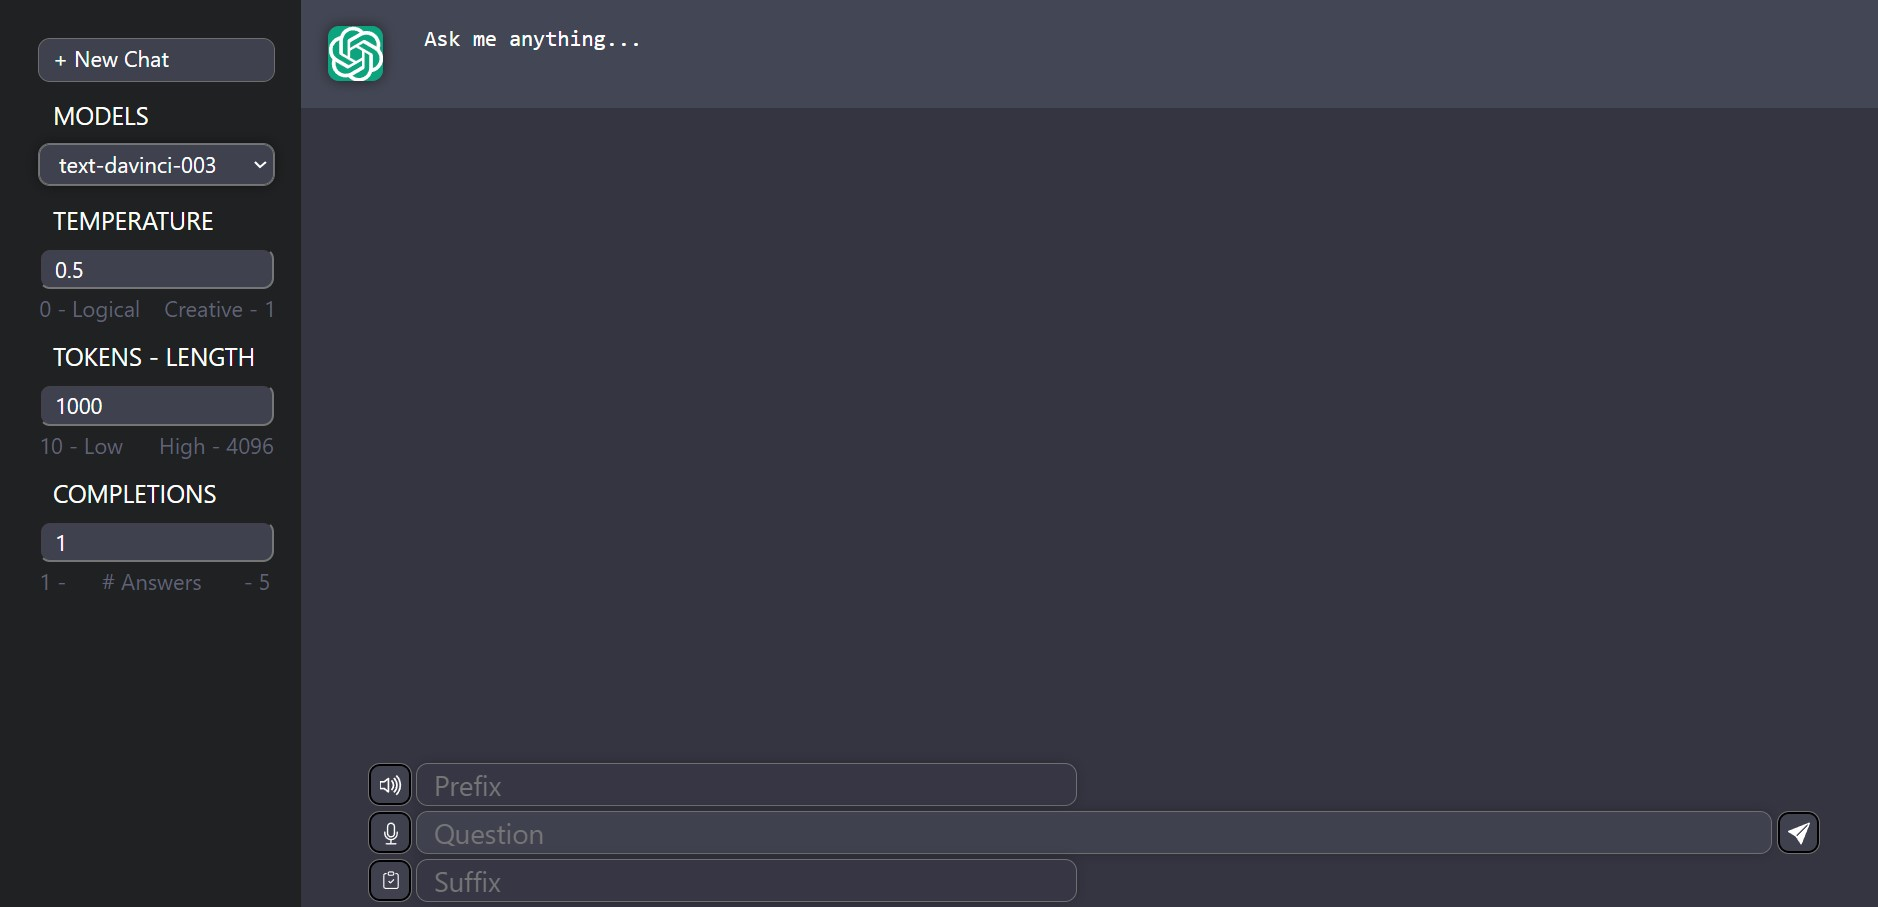
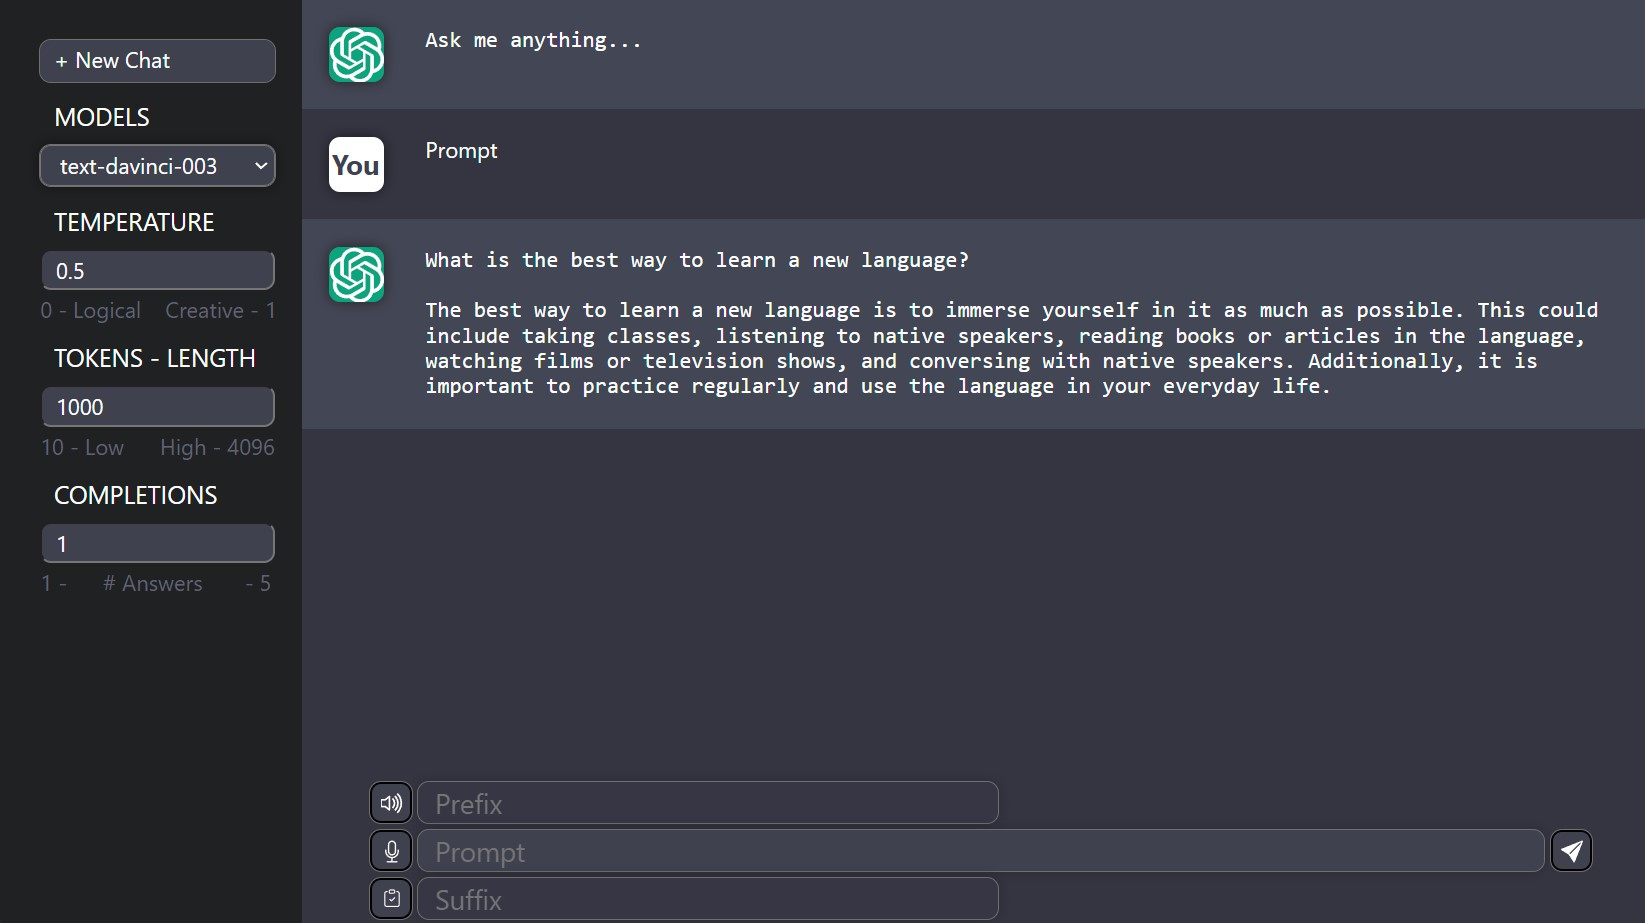
add button enability

Changed region(s): [[0.0, 0.0, 0.9921, 1.0]]

diff --git a/client/src/App.js b/client/src/App.js
@@ -17,7 +17,7 @@ mic.lang = 'en-US';
  */
 function App() {
   const MAX_TOKENS = parseInt(4096);
-  const PLACE_HOLDER = "Question";
+  const PLACE_HOLDER = "Prompt";
   const DEFAULT_QUERY = "Ask me anything...";
   const DEFAULT_MODEL = "text-davinci-003";
 
@@ -37,7 +37,7 @@ function App() {
   useEffect(() => {handleListen();}, [isListening]);
   const [isReading, setIsReading] = useState(false);
   // eslint-disable-next-line
-  useEffect(() => {handleReading(`${chatLog[chatLog.length-1]?.message}`);}, [isReading]);
+  useEffect(() => {handleReading(0);}, [isReading]);
   const {speak, voices} = useSpeechSynthesis();
 
   //###################### Async Functions #######################
@@ -101,10 +101,18 @@ function App() {
 
   function showLoader() {
     document.querySelector('.loader').style.visibility = "visible";
+    document.querySelector('.record-voice-button').disabled = true;
+    document.querySelector('.copy-button').disabled = true;
+    document.querySelector('.read-button').disabled = true;
+    document.querySelector('.send-button').disabled = true;
   }
 
   function hideLoader() {
     document.querySelector('.loader').style.visibility = "hidden";
+    document.querySelector('.record-voice-button').disabled = false;
+    document.querySelector('.copy-button').disabled = false;
+    document.querySelector('.read-button').disabled = false;
+    document.querySelector('.send-button').disabled = false;
   }
 
   function showRecorder() {

diff --git a/client/src/App.css b/client/src/App.css
@@ -180,6 +180,11 @@
   outline: 1px solid rgb(111, 111, 111);
 }
 
+.chat-input-textarea:hover {
+  background-color: #222222;
+  transition: ease 0.2s all;
+}
+
 .chat-input-textarea-prefix {
   background-color: #373744;
   border-radius: 8px;
@@ -200,6 +205,11 @@
   outline: 1px solid rgb(111, 111, 111);
 }
 
+.chat-input-textarea-prefix:hover {
+  background-color: #222222;
+  transition: ease 0.2s all;
+}
+
 .chat-input-textarea-suffix {
   background-color: #373744;
   border-radius: 8px;
@@ -217,6 +227,11 @@
   width: 35%;
   transition: ease 0.2s all;
   outline: 1px solid rgb(111, 111, 111);
+}
+
+.chat-input-textarea-suffix:hover {
+  background-color: #222222;
+  transition: ease 0.2s all;
 }
 
 .model-slection {
@@ -335,7 +350,7 @@
   box-shadow: 0 0 10px 0 rgba(0, 0, 0, 0.5);
   height: 40px;
   position: fixed;
-  right: 50px;
+  right: 40px;
   transition: ease 0.2s all;
   visibility: hidden;
   width: 40px;
